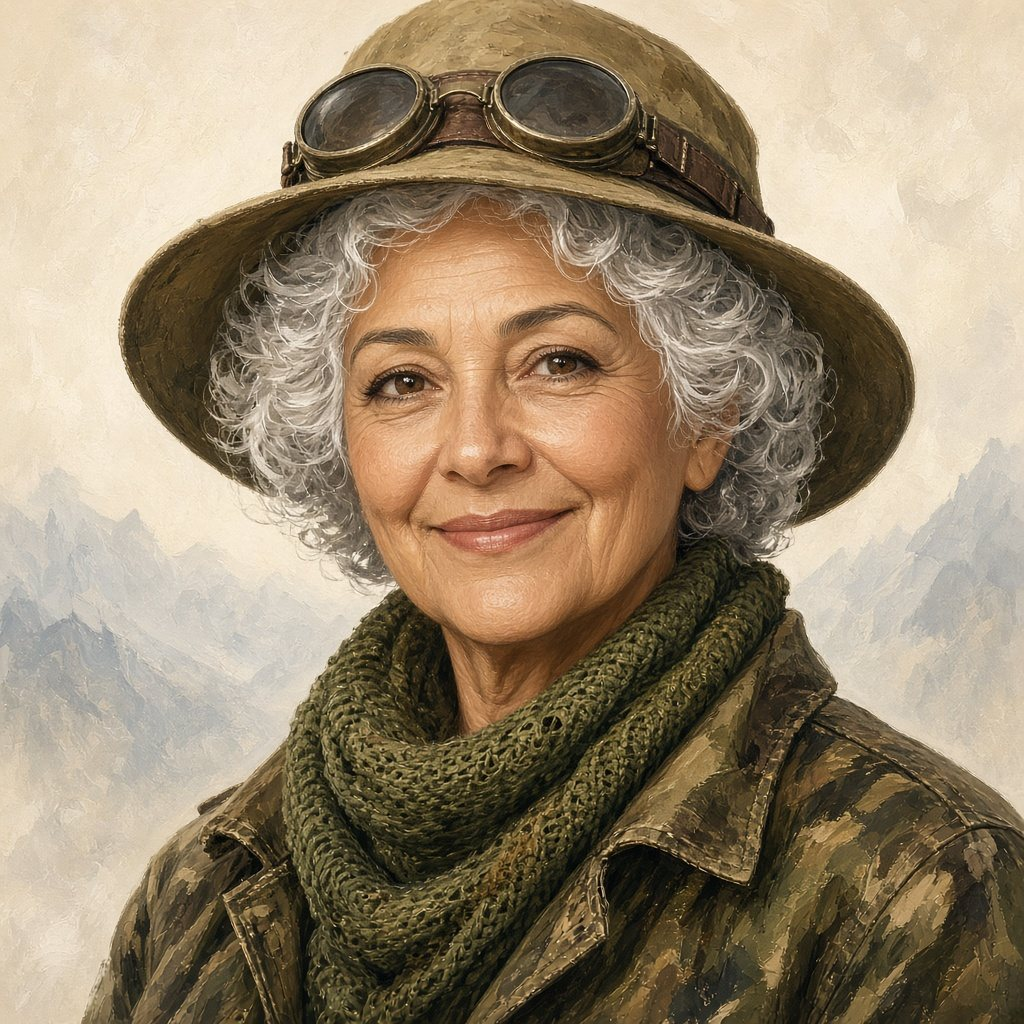
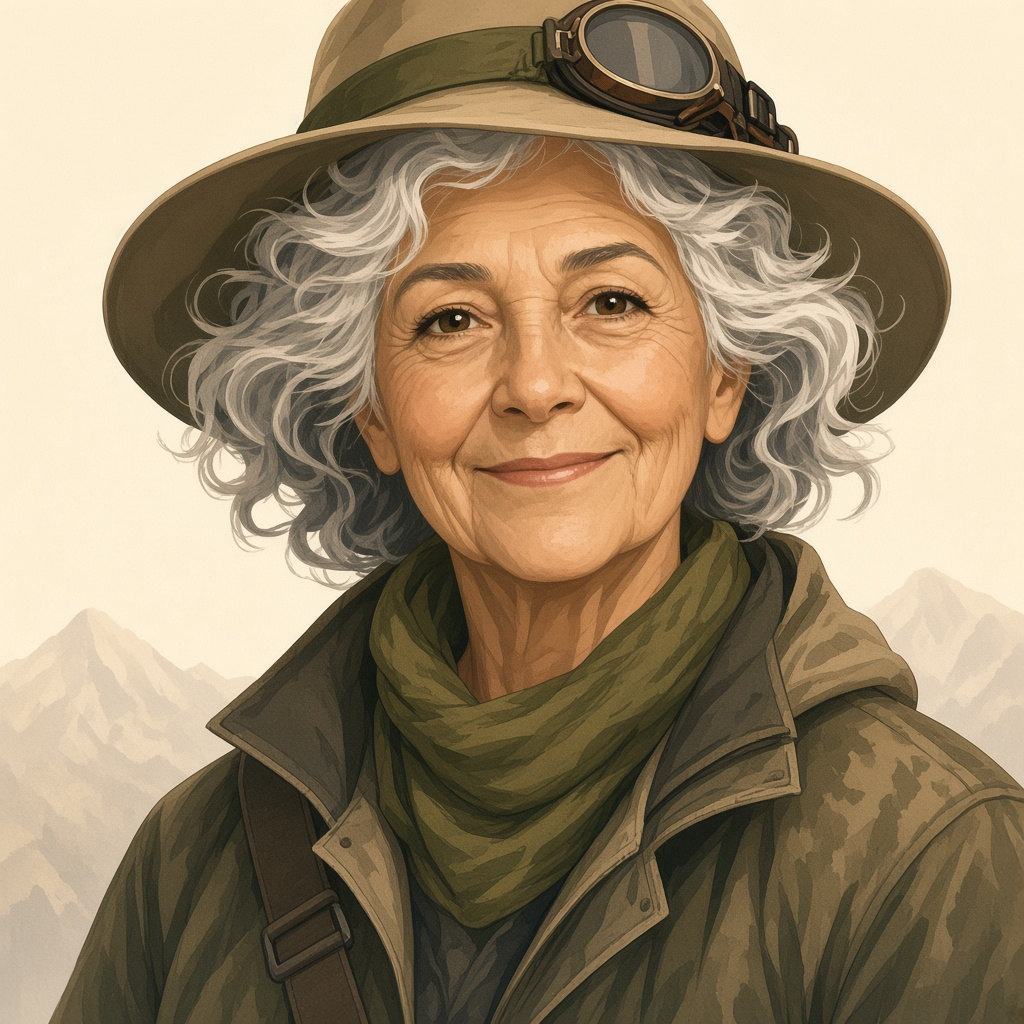
Replace glossy homepage art with washed cartoon illustrations
Swap the hero portrait, the truck photo, and the bench scene for
softer washed drawings in the same style as the cover and avatar.
The truck picture is now Nell asleep in the passenger seat of a
doors-off Bronco on red dirt. No people, no text.

diff --git a/index.html b/index.html
@@ -98,8 +98,8 @@
       <section class="days wrap">
         <figure class="shot trail-shot">
           <picture>
-            <source srcset="/images/tad-trail.webp" type="image/webp">
-            <img src="/images/tad-trail.jpg" width="1280" height="720" alt="Tad standing with her arms crossed beside an olive Bronco with the door open, on a dirt trail at sunrise." loading="lazy" decoding="async">
+            <source srcset="/images/tad-nell.webp" type="image/webp">
+            <img src="/images/tad-nell.jpg" width="1280" height="720" alt="Nell, an old heeler mix with a graying muzzle, asleep in the passenger seat of a doors-off olive Bronco on red dirt in late golden light." loading="lazy" decoding="async">
           </picture>
         </figure>
         <div>
@@ -112,7 +112,7 @@
       <figure class="shot bench-shot wrap">
         <picture>
           <source srcset="/images/tad-workbench.webp" type="image/webp">
-          <img src="/images/tad-workbench.jpg" width="1152" height="864" alt="Tad at her wooden workbench, weeding black vinyl shapes, a mug of coffee at her elbow and a cutting machine behind her." loading="lazy" decoding="async">
+          <img src="/images/tad-workbench.jpg" width="1152" height="864" alt="Tad at her wooden workbench in a washed illustration, weeding a sheet of black vinyl, a mug of coffee at her elbow and a vinyl cutter beside her." loading="lazy" decoding="async">
         </picture>
       </figure>
 
